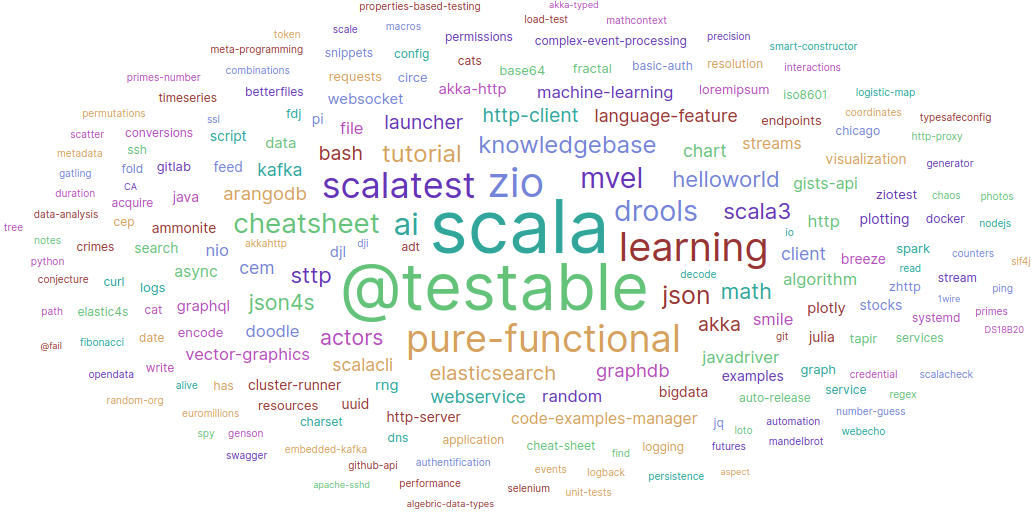
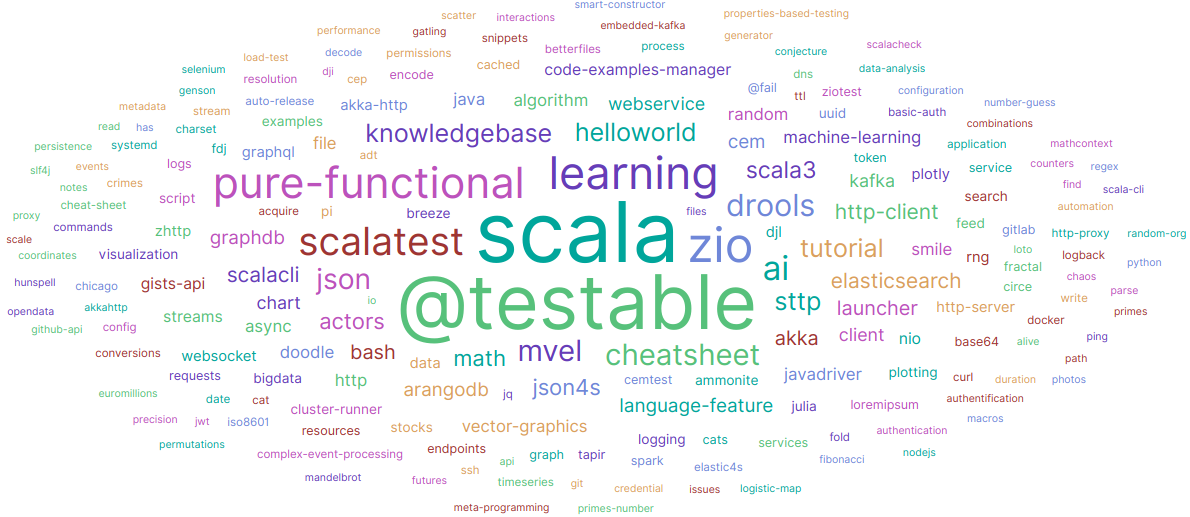
Improve documentation

Changed region(s): [[0.0, 0.0, 1.0, 1.0]]

diff --git a/README.md b/README.md
@@ -1,12 +1,12 @@
 # CEM - Code Examples Manager [![][CodeExamplesManagerImg]][CodeExamplesManagerLnk] ![Scala CI][scalaci-master]
 
-Code example manager (CEM) is a software tool which manage your notes and your code examples
+Code example manager (CEM) is a software managing your notes and code examples
 and provide publish mechanisms to [github.com][githubcom] (as [gists][gists]) or
 [gitlab.com][gitlabcom] (as [snippets][snippets]).
 
 All my notes and code examples (my programming knowledge base) are now managed using this tool,
 you can take a look to **[my public gists overview on github][mygists]** to illustrate the 
-publishing work achieved by CEM. 
+publishing work achieved by CEM.
 
 ![](images/cloudtags.png)
 
@@ -61,7 +61,7 @@ Instructions example with github.com publishing configuration :
   ```
 - Run the following command from your terminal (`cs` is the [coursier][cs] CLI command):
   ```
-  cs launch fr.janalyse:code-examples-manager_3:2.1.0
+  cs launch fr.janalyse:code-examples-manager_3:2.2.0
   ```
   - you can even use `cs launch fr.janalyse:code-examples-manager_3:latest.release` to always use the latest release
   - current release is : [![][CodeExamplesManagerImg]][CodeExamplesManagerLnk]
@@ -79,20 +79,28 @@ Example for languages using `//` for line comments :
 ```scala
 // summary : Simplest scalatest test framework usage.
 // keywords : scala, scalatest, pi, @testable
-// publish : gist, snippet
+// publish : gist
 // authors : David Crosson
 // license : Apache
 // id : d24d8cb3-45c0-4d88-b033-7fae2325607b
-// execution : scala ammonite script (https://ammonite.io/) - run as follow 'amm scriptname.sc'
-import $ivy.`org.scalatest::scalatest:3.2.0`
-import org.scalatest._,matchers.should.Matchers._
-math.Pi shouldBe 3.14d +- 0.01d
+// created-on : 2020-05-31T19:54:52Z
+// run-with : scala-cli $scriptFile
 
+// ---------------------
+//> using scala  "3.1.1"
+//> using lib "org.scalatest::scalatest:3.2.10"
+// ---------------------
+
+import org.scalatest._, matchers.should.Matchers._
+
+math.Pi shouldBe 3.14d +- 0.01d
 ```
 
-Request keys in description header are the following :
-- **`summary`** : example one line summary.
-- **`keywords`** : keywords describing your code features (comma separated).
+Supported keys in description header are the following :
+- **`summary`** : example summary in one line.
+- **`keywords`** : keywords describing your code features (comma separated). Some reserved keywords :
+  - `@testable` : allow automatic execution
+  - `@fail` : the example is expected to fail when executed 
 - **`publish`** : publish destination keywords (comma separated)
   - the default configuration file provide those activation keywords :
     - `gist` : for github.com
@@ -100,15 +108,16 @@ Request keys in description header are the following :
 - **`authors`** : code example authors list (comma separated).
 - **`license`** : the example license.
 - **`id`** : UUID for this code example. Generated using such commands :
-  - [this ammonite scala script][uuid-sc].
-  - This linux command (comes from package named uuid-runtime at least on debian based linux) :  
-    `uuidgen`
-  - This [ammonite][amm] oneliner :  
-    `amm -c 'println(java.util.UUID.randomUUID.toString)'`
-  - This python oneliner :  
-    `python -c "import uuid, sys;sys.stdout.write(str(uuid.uuid4()))"`
-  - Or use a dedicated UUID plugin for your IDE such as "UUID Generator" for IntelliJ IDEA
-- **execution** : how to execute the example, execution runtime release constraints, ...
+  - with linux command : `uuidgen`
+  - with [scala-cli][scl] : `scala-cli https://gist.github.com/dacr/87c9636a6d25787d7c274b036d2a8aad`
+  - with [ammonite][amm] : `amm -c 'println(java.util.UUID.randomUUID.toString)'`
+- **`created-on`** : The ISO8601 date when this example has been created. Generated using such commands :
+  - with linux command : `date -u +"%Y-%m-%dT%H:%M:%S.%3NZ"`
+  - with [scala-cli][scl] : `scala-cli https://gist.github.com/dacr/4298fce08e12ba76ab91e9766be52acb`
+  - with [ammonite][amm] : `amm -c 'println(java.time.Instant.now.toString)'`
+- **`run-with`** : command used to execute this example
+  - Only examples with `@testable` keywords are eligible for automated execution
+  - on execution the exit code is used to compute execution success or failure
 
 ## CEM operations
 
@@ -133,12 +142,12 @@ allow a simple configuration way based on environment variables which override d
 
 | env or property name       | description                                                   | default value
 |----------------------------|---------------------------------------------------------------|---------------------------
-| CEM_SEARCH_ROOTS           | Examples search roots (comma separated)                       | ""
-| CEM_SEARCH_PATTERN         | Examples files regular expression pattern                     | ".*[.].*"
-| CEM_SEARCH_IGNORE_MASK     | Ignore file regular expression                                | "(/[.]bsp)|(/[.]scala)"
-| CEM_EXAMPLES_OVERVIEW_UUID | The fixed UUID for the overview GIST which list all examples  | "cafacafe-cafecafe"
 | CEM_CONFIG_FILE            | Your custom advanced configuration file (optional)            | *undefined*
-| CEM_SUMMARY_TITLE          | Generated summary title                                       | Examples knowledge base
+| CEM_SUMMARY_TITLE          | The generated summary title for all published examples        | Examples knowledge base 
+| CEM_SEARCH_ROOTS           | Examples search roots (comma separated)                       | ""
+| CEM_SEARCH_PATTERN         | Examples files regular expression pattern                     | ".*"
+| CEM_SEARCH_IGNORE_MASK     | Ignore file regular expression                                | "(/[.]bsp)|(/[.]scala.*)|([.]png$)"
+| CEM_CHAR_ENCODING          | Chararacter encoding for your examples or notes               | "UTF-8"
 | CEM_GITHUB_ENABLED         | To enable or disable standard GITHUB support                  | true
 | CEM_GITHUB_ACTIVATION_KEY  | Example publish keyword for github                            | "gist"
 | CEM_GITHUB_TOKEN           | Github authentication token for gists API access              | *more information below*
@@ -204,6 +213,7 @@ Get an access token from gitlab.com :
 - 2021-05 - Full refactoring to use [ZIO][zio] - pure functional
 - 2021-06 - Migration to Scala3
 - 2021-12 - PoC#3 Search & Execution engines
+- 2022-01 - Migrate to ZIO2
 
 ## Acknowledgements
 
@@ -220,6 +230,7 @@ Get an access token from gitlab.com :
 [mygists]: https://gist.github.com/c071a7b7d3de633281cbe84a34be47f1
 [cem]: https://github.com/dacr/code-examples-manager
 [amm]: https://ammonite.io/
+[scl]: https://scala-cli.virtuslab.org/
 [githubcom]: https://github.com/
 [gitlabcom]: https://gitlab.com/
 [snippets]: https://docs.gitlab.com/ce/user/snippets.html
